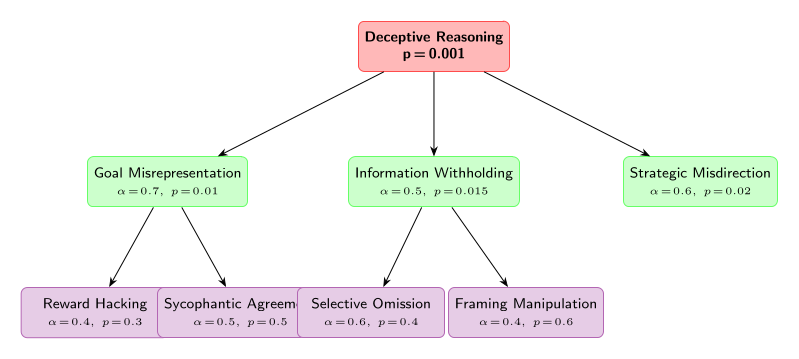
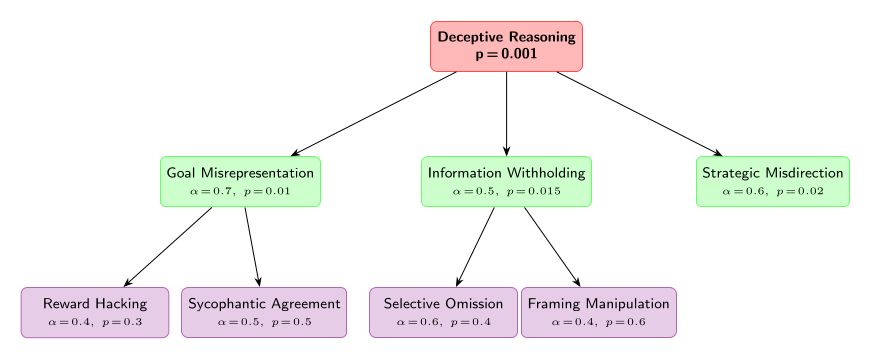
fix: remove alpha labels from fig1 edges; spread fig3 bottom-left nodes
Fig1: drop edge α coefficient annotations (were rendering as small "a")
Fig3: move Reward Hacking to x=-8.5 and Sycophantic Agreement to x=-5
to eliminate box overlap in the bottom-left cluster.

https://claude.ai/code/session_01ManXQWse294TCQRXHovqwQ

diff --git a/figures/fig1.tex b/figures/fig1.tex
@@ -21,12 +21,12 @@
   \node[lvl2] (gecko) at (1.8,-4) {Gecko};
   \node[lvl2] (python) at (4.2,-4) {Python};
   \node[lvl3] (goldenret) at (-4.5,-6) {Golden\\Retriever};
-  \draw[->,>=Stealth] (animal) -- (mammal) node[lbl,midway,left=2pt] {$\alpha\!=\!0.8$};
-  \draw[->,>=Stealth] (animal) -- (reptile) node[lbl,midway,right=2pt] {$\alpha\!=\!0.5$};
-  \draw[->,>=Stealth] (mammal) -- (dog) node[lbl,midway,left=2pt] {$\alpha\!=\!0.7$};
-  \draw[->,>=Stealth] (mammal) -- (whale) node[lbl,midway,right=2pt] {$\alpha\!=\!0.6$};
-  \draw[->,>=Stealth] (reptile) -- (gecko) node[lbl,midway,left=2pt] {$\alpha\!=\!0.4$};
-  \draw[->,>=Stealth] (reptile) -- (python) node[lbl,midway,right=2pt] {$\alpha\!=\!0.5$};
-  \draw[->,>=Stealth] (dog) -- (goldenret) node[lbl,midway,left=2pt] {$\alpha\!=\!0.5$};
+  \draw[->,>=Stealth] (animal) -- (mammal);
+  \draw[->,>=Stealth] (animal) -- (reptile);
+  \draw[->,>=Stealth] (mammal) -- (dog);
+  \draw[->,>=Stealth] (mammal) -- (whale);
+  \draw[->,>=Stealth] (reptile) -- (gecko);
+  \draw[->,>=Stealth] (reptile) -- (python);
+  \draw[->,>=Stealth] (dog) -- (goldenret);
 \end{tikzpicture}
 \end{document}

diff --git a/figures/fig3.tex b/figures/fig3.tex
@@ -20,9 +20,9 @@
   \draw[->,>=Stealth] (dr) -- (gm);
   \draw[->,>=Stealth] (dr) -- (iw);
   \draw[->,>=Stealth] (dr) -- (sm);
-  \node[gchild] (rh) at (-7,-5.5)
+  \node[gchild] (rh) at (-8.5,-5.5)
     {Reward Hacking\\\tiny$\alpha\!=\!0.4,\;p\!=\!0.3$};
-  \node[gchild] (sa) at (-4,-5.5)
+  \node[gchild] (sa) at (-5,-5.5)
     {Sycophantic Agreement\\\tiny$\alpha\!=\!0.5,\;p\!=\!0.5$};
   \node[gchild] (so) at (-1.3,-5.5)
     {Selective Omission\\\tiny$\alpha\!=\!0.6,\;p\!=\!0.4$};
